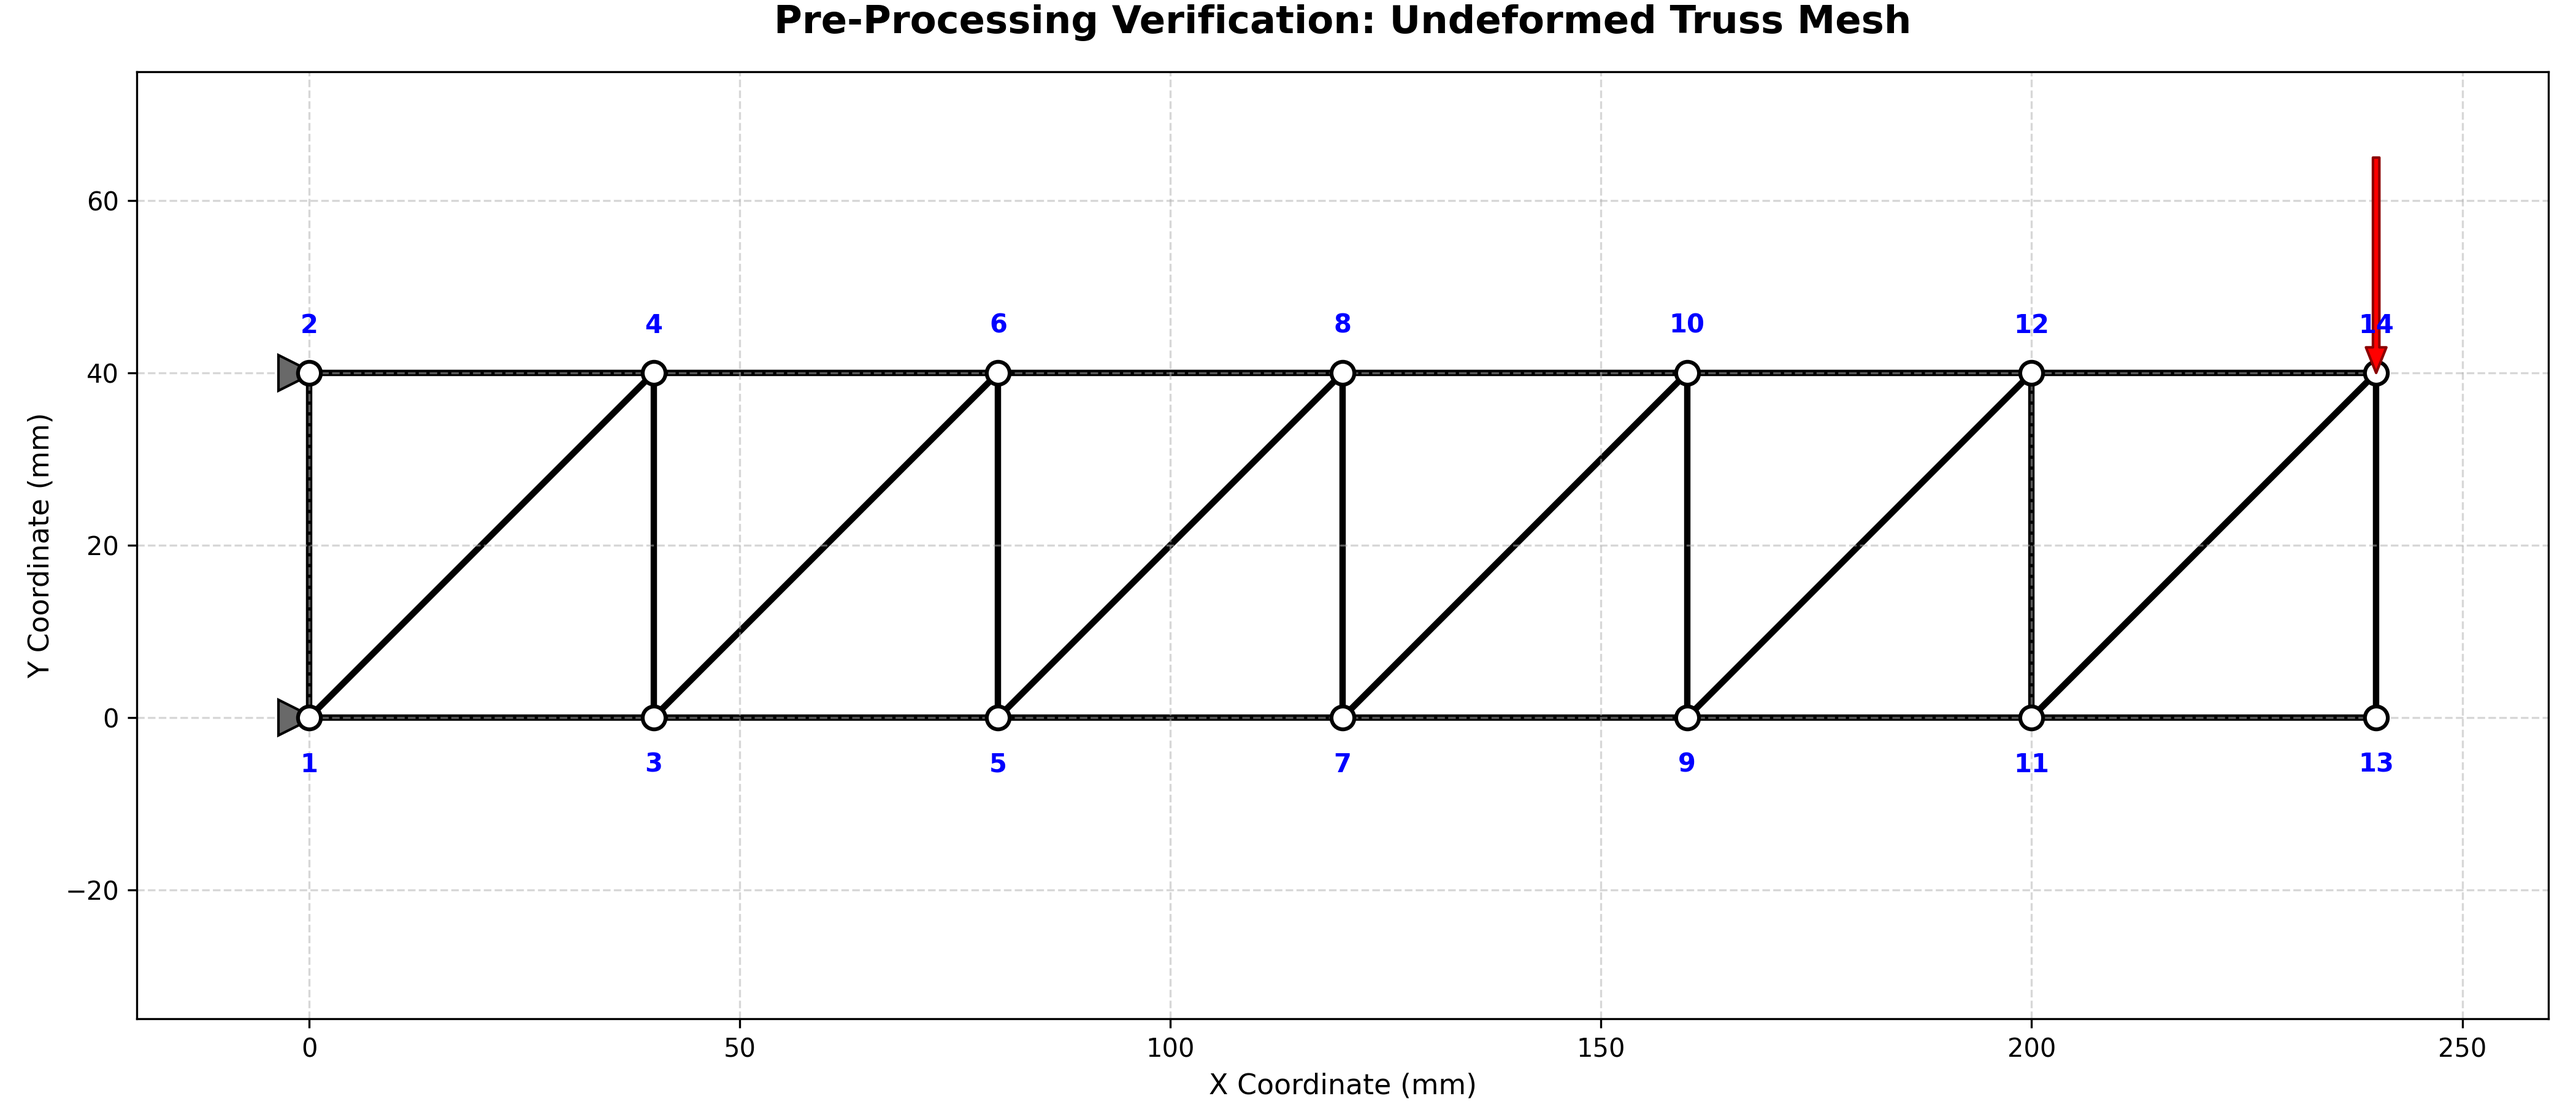
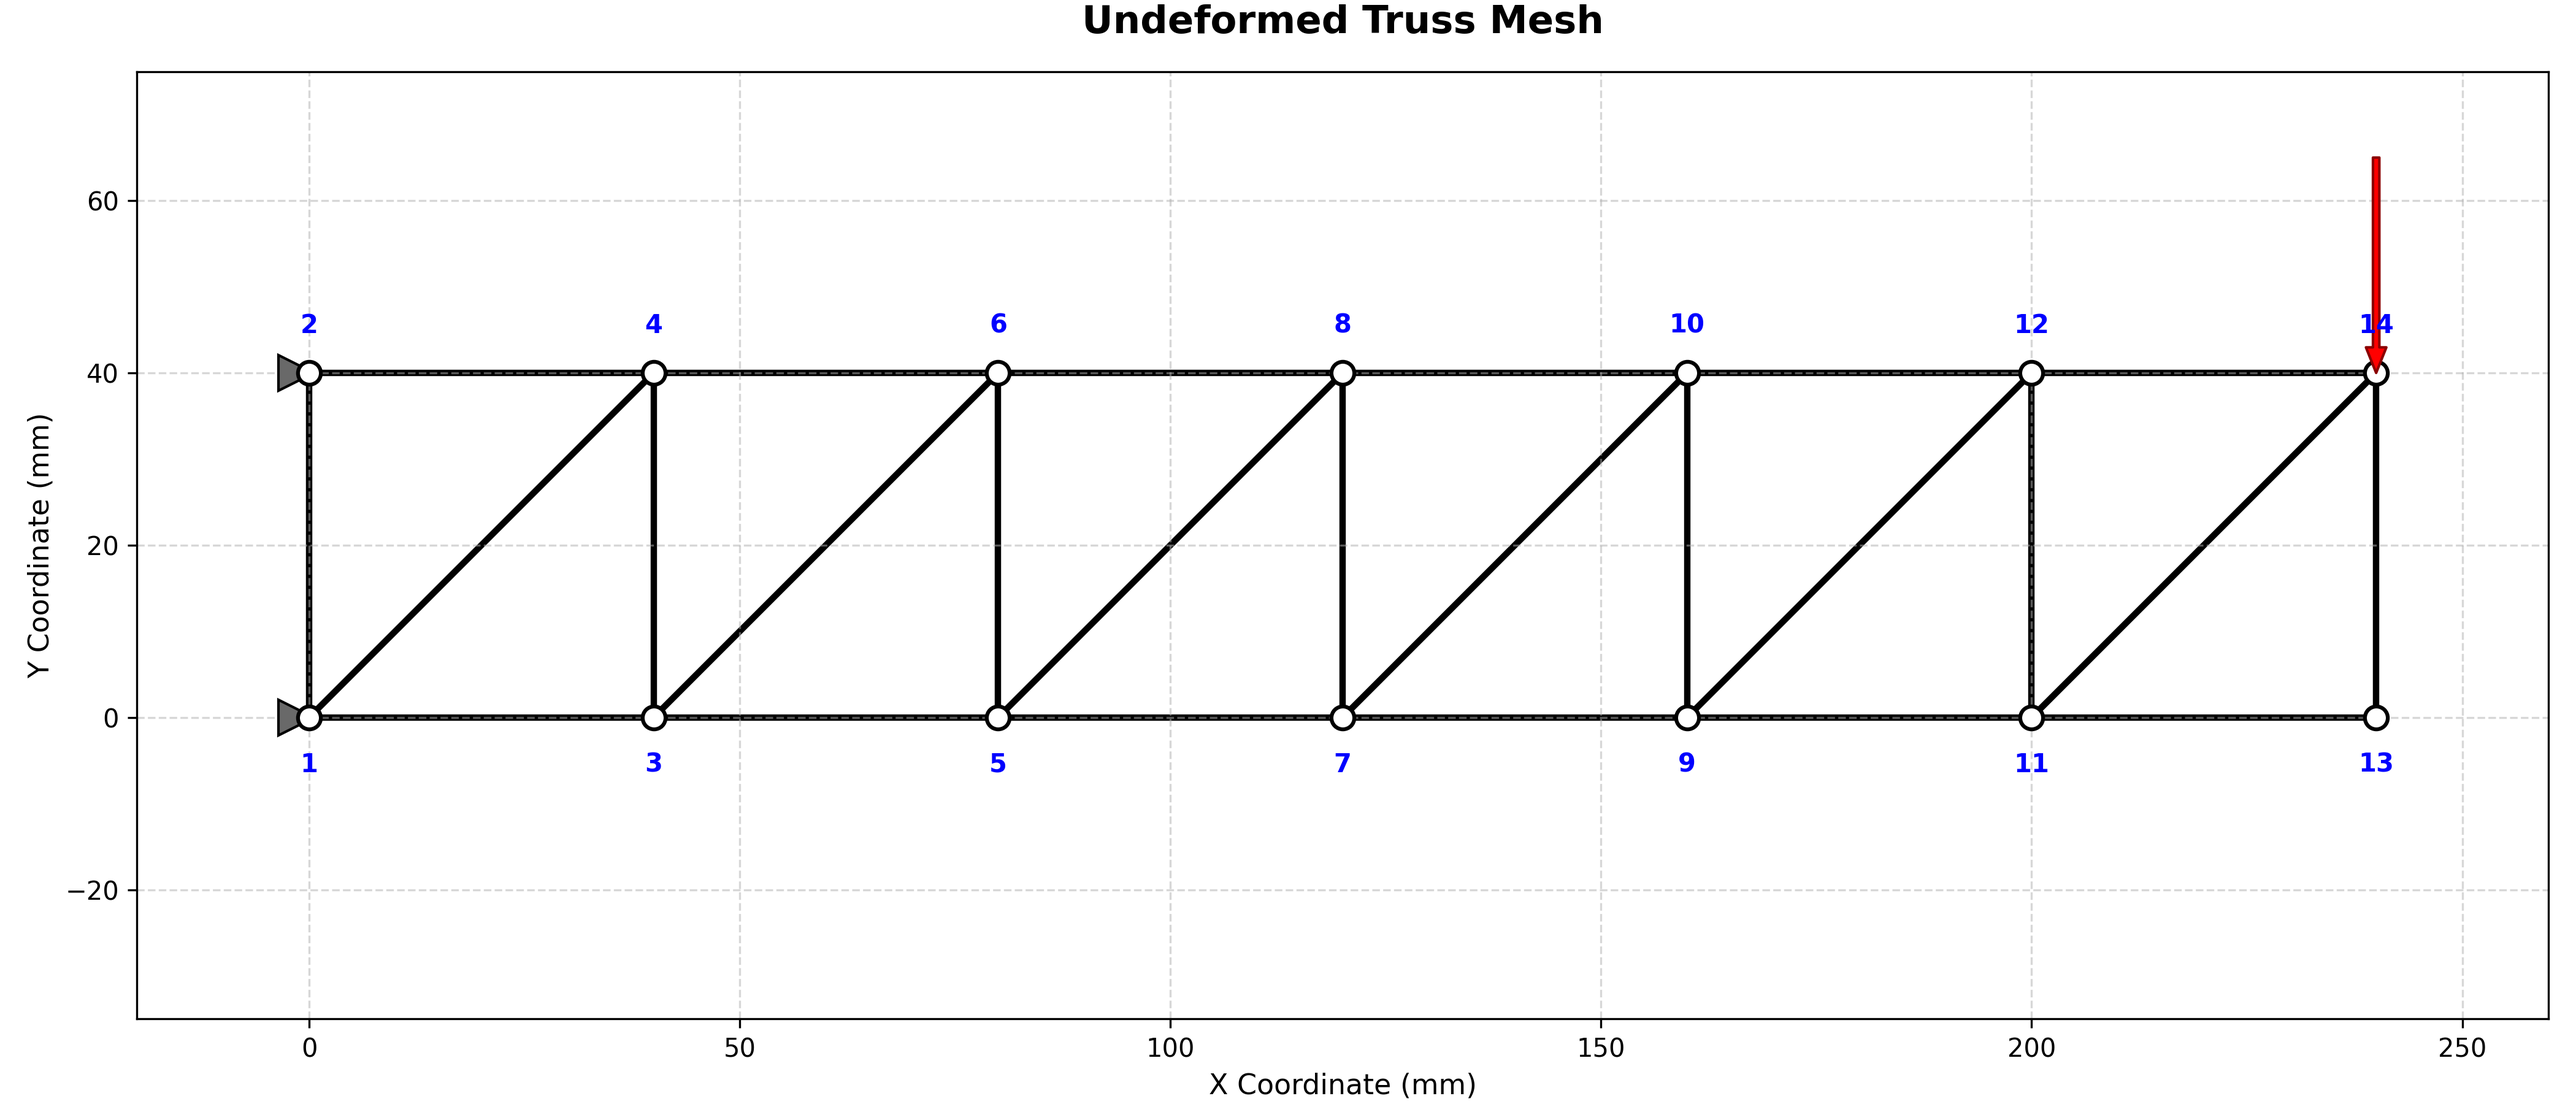
Updated the solver initialization subroutine to handle 2D arrays. Rewriting the assembly process to correctly map the element stiffness and internal force contributions to the global system.

Changed region(s): [[0.2807, 0.0, 0.7486, 0.0311]]

diff --git a/Assignment_3/plot_truss.py b/Assignment_3/plot_truss.py
@@ -105,7 +105,7 @@ if max_force > 0:
 
 # Formatting
 ax.set_title(
-    "Pre-Processing Verification: Undeformed Truss Mesh",
+    "Undeformed Truss Mesh",
     fontsize=15,
     fontweight="bold",
     pad=15,
